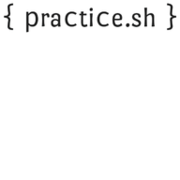
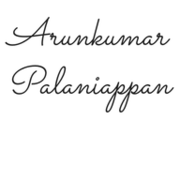
Update URL

Changed region(s): [[0.0, 0.0, 0.9444, 0.2778], [0.0556, 0.3611, 0.9722, 0.6389], [0.9167, 0.0, 1.0, 0.1667]]

diff --git a/src/components/Sidebar/Author/Author.js b/src/components/Sidebar/Author/Author.js
@@ -26,14 +26,14 @@ const Author = ({ author, isIndex }: Props) => (
 
     { isIndex === true ? (
       <h1 className={styles['author__title']}>
-        <Link className={styles['author__title-link']} to="/">{author.name}</Link>
+        <Link className={styles['author__title-link']} style={{ fontFamily: 'Sacramento', fontSize: 45, fontWeight: 100 }} to="/">{author.name}</Link>
       </h1>
     ) : (
       <h2 className={styles['author__title']}>
-        <Link className={styles['author__title-link']} to="/">{author.name}</Link>
+        <Link className={styles['author__title-link']} style={{ fontFamily: 'Sacramento', fontSize: 45, fontWeight: 100 }} to="/">{author.name}</Link>
       </h2>
     )}
-    <p className={styles['author__subtitle']}>{author.bio}</p>
+    <p className={styles['author__subtitle']} style={{ fontFamily: 'KoHo', fontWeight: 'bold' }}>{author.bio}</p>
   </div>
 );
 

diff --git a/src/components/Post/Post.js b/src/components/Post/Post.js
@@ -23,8 +23,8 @@ const Post = ({ post }: Props) => {
 
   return (
     <div className={styles['post']}>
-      <Link id="white-logo" className={styles['post__home-button']} to="/"><img src={whiteLogo} alt="Logo" /></Link>
-      <Link id="dark-logo" className={styles['post__home-button']} to="/"><img src={darkLogo} alt="Logo" /></Link>
+      <Link id="white-logo" className={styles['post__home-button']} to="/"><span style={{ fontFamily: 'Sacramento', fontSize: 45 }}>Arunkumar<br/>Palaniappan</span></Link>
+      <Link id="dark-logo" className={styles['post__home-button']} to="/"><span style={{ fontFamily: 'Sacramento', fontSize: 45 }}>Arunkumar<br/>Palaniappan</span></Link>
       <div className={styles['post__content']}>
         <Content body={html} title={title} readingTime={readingTime} date={date} />
       </div>

diff --git a/config.js b/config.js
@@ -1,11 +1,11 @@
 'use strict';
 
 module.exports = {
-  url: 'https://practice.sh/',
+  url: 'https://akrp.in/',
   pathPrefix: '/',
   title: 'Arunkumar Palaniappan',
   subtitle: 'Full-Stack Developer',
-  copyright: `© ${new Date().getFullYear()} practice.sh`,
+  copyright: `© 2020 - ${new Date().getFullYear()} akrp.in`,
   disqusShortname: '',
   postsPerPage: 5,
   googleAnalyticsId: 'UA-92404962-1',
@@ -13,7 +13,7 @@ module.exports = {
   author: {
     name: 'Arunkumar Palaniappan',
     photo: '',
-    bio: 'Full-Stack Developer',
+    bio: 'I\'m a Full Stack Developer who loves working in Java Script, I have worked as a software developer since 2015.',
     contacts: {
       email: '',
       facebook: '',

diff --git a/src/components/Post/Tags/Tags.js b/src/components/Post/Tags/Tags.js
@@ -10,7 +10,7 @@ type Props = {
 
 const Tags = ({ tags, tagSlugs }: Props) => (
   <div className={styles['tags']}>
-    <ul className={styles['tags__list']}>
+    <ul className={styles['tags__list']} style={{ fontFamily: 'KoHo', fontWeight: 'bold' }}>
       {tagSlugs && tagSlugs.map((slug, i) => (
         <li className={styles['tags__list-item']} key={tags[i]}>
           <Link to={slug} className={styles['tags__list-item-link']}>

diff --git a/src/assets/scss/init.scss b/src/assets/scss/init.scss
@@ -8,6 +8,14 @@
     font-family: SourceCodePro;
     src: url('./SourceCodePro-Medium.ttf');
   }
+  @font-face {
+    font-family: Sacramento;
+    src: url('./Sacramento.woff2');
+  }
+  @font-face {
+    font-family: KoHo;
+    src: url('./KoHo.woff2');
+  }
 .language-js {
     font-family: 'SourceCodePro' !important;
 }

diff --git a/src/components/Post/Author/Author.js b/src/components/Post/Author/Author.js
@@ -9,7 +9,7 @@ const Author = () => {
 
   return (
     <div className={styles['author']}>
-      <p className={styles['author__bio']}>
+      <p className={styles['author__bio']} style={{ fontFamily: 'KoHo', fontWeight: 'bold' }}>
         {author.bio}
         <a
           className={styles['author__bio-twitter']}

diff --git a/src/components/Post/Meta/Meta.js b/src/components/Post/Meta/Meta.js
@@ -8,7 +8,7 @@ type Props = {
 };
 
 const Meta = ({ date }: Props) => (
-  <div className={styles['meta']}>
+  <div className={styles['meta']} style={{ fontFamily: 'KoHo', fontWeight: 'bold' }}>
     <p className={styles['meta__date']}>Published {moment(date).format('D MMM YYYY')}</p>
   </div>
 );

diff --git a/gatsby-config.js b/gatsby-config.js
@@ -186,7 +186,7 @@ module.exports = {
               ],
               prompt: {
                 user: "root",
-                host: "practice.sh",
+                host: "akrp.in",
                 global: false,
               },
               escapeEntities: {},

diff --git a/content/posts/2020/09/2020-09-13---JavaScript-Arrays-Made-Easy.md b/content/posts/2020/09/2020-09-13---JavaScript-Arrays-Made-Easy.md
@@ -14,7 +14,7 @@ socialImage: "/media/image-2.jpg"
 ---
 Welcome to series **Made easy with JavaScript**. In this series we will be exploring some quick and efficient methods to do day to day operations in JavaScript. We will start with arrays. Everyday we are doing various operations like  appending, checking element, inserting, sorting, etc.., to process data in our web application. In this post we will be exploring the best ways to do these operations.
 
-You can read Part 2 of this series **Made easy with JavaScript Objects** at  [https://practice.sh](https://practice.sh/posts/2020/09/made-easy-with-javascript-objects)
+You can read Part 2 of this series **Made easy with JavaScript Objects** at  [https://akrp.in](https://akrp.in/posts/2020/09/made-easy-with-javascript-objects)
 
 
 

diff --git a/content/posts/2020/09/2020-09-30---JavaScript-Objects-Made-Easy.md b/content/posts/2020/09/2020-09-30---JavaScript-Objects-Made-Easy.md
@@ -15,7 +15,7 @@ socialImage: "/media/image-2.jpg"
 Welcome to series **Made easy with JavaScript**. In this series we will be exploring some quick and efficient methods to do day to day operations in JavaScript. This post will explore on the most used operations/actions. Let’s get started.
 
 
-You can read Part 1 of this series **Made easy with JavaScript Arrays** at  [https://practice.sh](https://practice.sh/posts/2020/09/made-easy-with-javascript-array)
+You can read Part 1 of this series **Made easy with JavaScript Arrays** at  [https://akrp.in](https://akrp.in/posts/2020/09/made-easy-with-javascript-array)
 
 
 ###  Checking for a key exists in object
